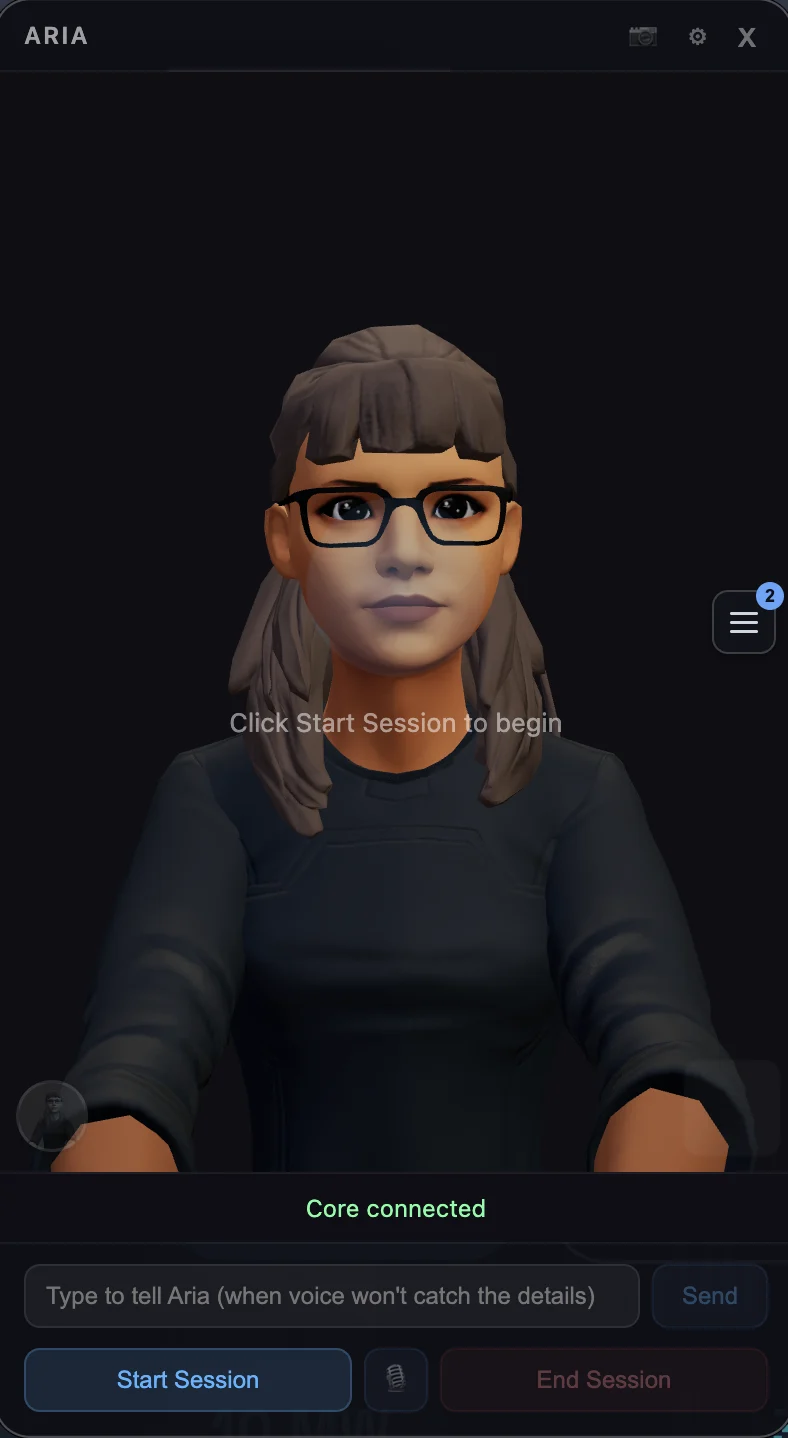
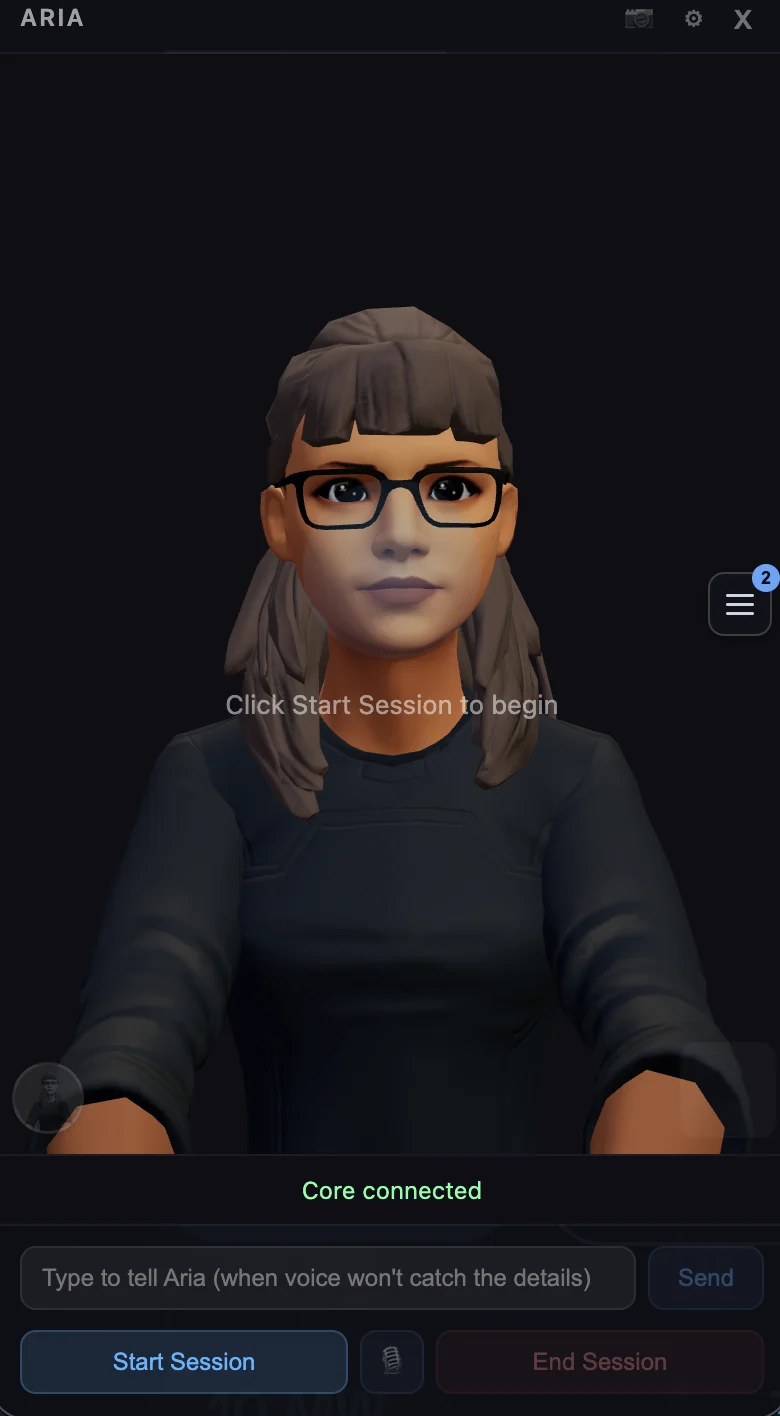
Selam landing: deeper hero crop + layered drop-shadow
Crop 22px off the top (drops the macOS rounded-corner anti-aliasing
band) and 8px off sides and bottom (clears the 1-pixel light outer
ring). New dims 780x1416. All four corners now read as pure dark
window-interior (15,15,22).

Add two-layer filter drop-shadow on .hero-screenshot — a tight
close shadow to ground it plus a softer wider shadow to lift it
off the dark page bg, so the screenshot stands out instead of
blending into the page. Cache-buster v=8.

diff --git a/selam-landing.html b/selam-landing.html
@@ -452,6 +452,13 @@ button { font: inherit; color: inherit; background: none; border: none; cursor: 
   max-height: 80vh;
   object-fit: contain;
   margin: 0 auto;
+  /* Layered drop-shadow: a tight close-shadow grounds the screenshot,
+     and a softer wider shadow lifts it off the dark page background.
+     filter (not box-shadow) so the shadow respects the JPG's solid
+     rectangle and the WebP's alpha equally. */
+  filter:
+    drop-shadow(0 4px 10px rgba(0, 0, 0, 0.40))
+    drop-shadow(0 30px 60px rgba(0, 0, 0, 0.45));
   animation: heroFloat 6s 1.8s ease-in-out infinite;
 }
 @keyframes heroFloat {
@@ -1512,9 +1519,9 @@ footer { border-top: 1px solid var(--line); padding: 3rem 0; font-family: var(--
            animations on a single node). -->
       <div class="hero-screenshot-wrap">
         <picture>
-          <source srcset="assets/selam-app.webp?v=7" type="image/webp">
+          <source srcset="assets/selam-app.webp?v=8" type="image/webp">
           <img
-            src="assets/selam-app.jpg?v=7"
+            src="assets/selam-app.jpg?v=8"
             alt="Selam app — 3D avatar rendering on-device, no cloud avatar service in the loop"
             class="hero-screenshot"
             loading="eager"
